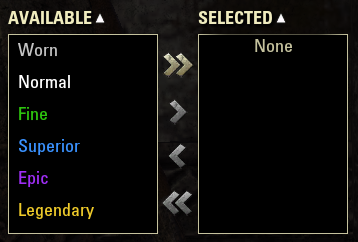
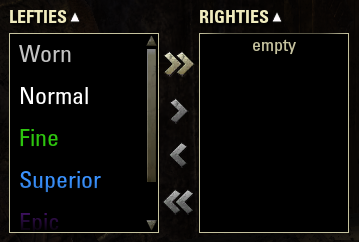
add support for fontSize and updated example screens

Changed region(s): [[0.0, 0.0289, 0.9832, 1.0], [0.3687, 0.0289, 0.4302, 0.0868], [0.4609, 0.0868, 0.4916, 0.1157]]

diff --git a/README.md b/README.md
@@ -31,11 +31,15 @@ local customSettings = {
     sortBy = "key",
     leftList = {
         title = "Lefties",
-        emptyListText = "None"
+        emptyListText = "None",
+        rowHeight = 48,
+        fontSize = 24
     },
     rightList = {
         title = "Righties",
-        emptyListText = "None"
+        emptyListText = "None",
+        rowHeight = 28,
+        fontSize = 14
     }
 }
 
@@ -145,13 +149,15 @@ customSettings = {
         title = "",                                     -- the title/header of the list
         rowHeight = 32,                                 -- the height of an individual row/entry
         rowTemplateName = "ShifterBoxEntryTemplate",    -- an individual XML (cirtual) control can be provided for the rows/entries
-        emptyListText = GetString(LIBSHIFTERBOX_EMPTY)  -- the text to be displayed if there are no entries left in the list
+        emptyListText = GetString(LIBSHIFTERBOX_EMPTY), -- the text to be displayed if there are no entries left in the list
+        fontSize = 18,                                  -- size of the font
     },
     rightList = {               -- list-specific settings that apply to the RIGHT list
         title = "",                                     -- the title/header of the list
         rowHeight = 32,                                 -- the height of an individual row/entry
         rowTemplateName = "ShifterBoxEntryTemplate",    -- an individual XML (cirtual) control can be provided for the rows/entries
-        emptyListText = GetString(LIBSHIFTERBOX_EMPTY)  -- the text to be displayed if there are no entries left in the list
+        emptyListText = GetString(LIBSHIFTERBOX_EMPTY), -- the text to be displayed if there are no entries left in the list
+        fontSize = 18,                                  -- size of the font
     }    
 }
 ```
